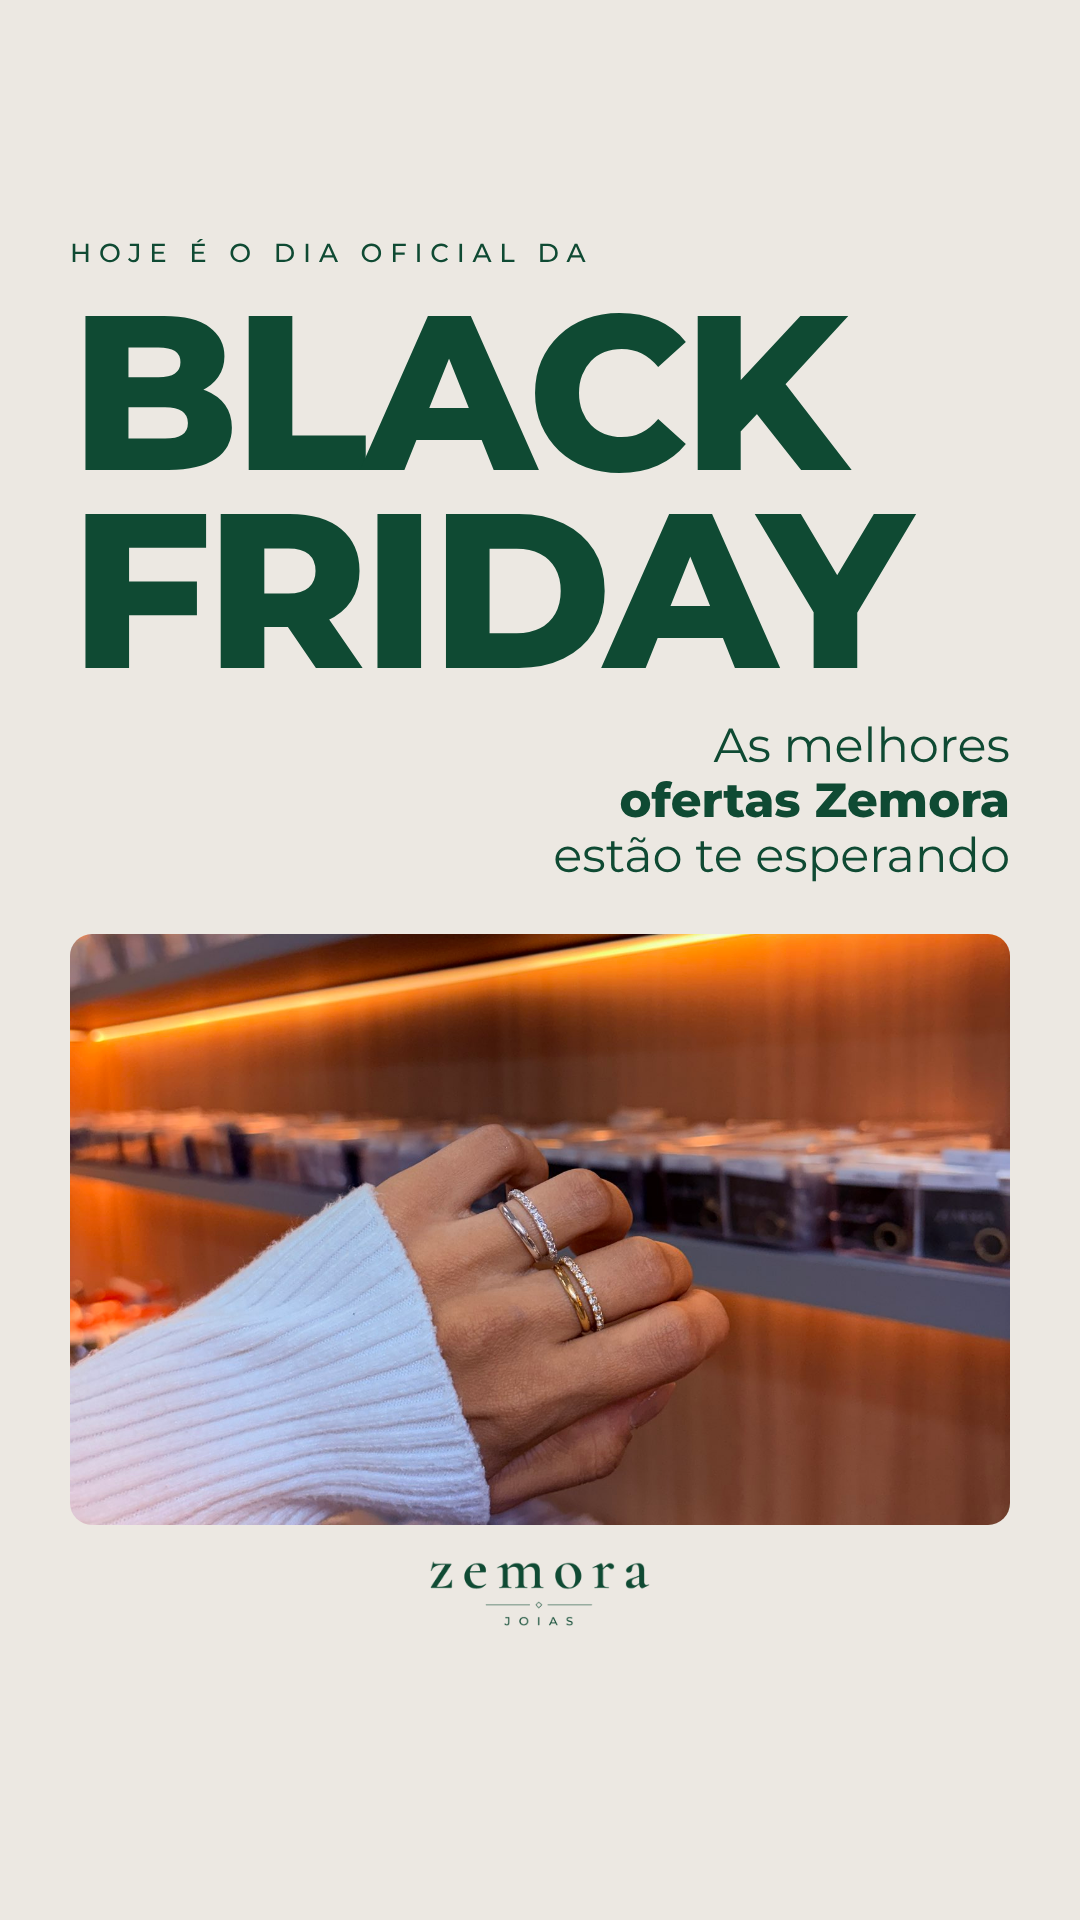
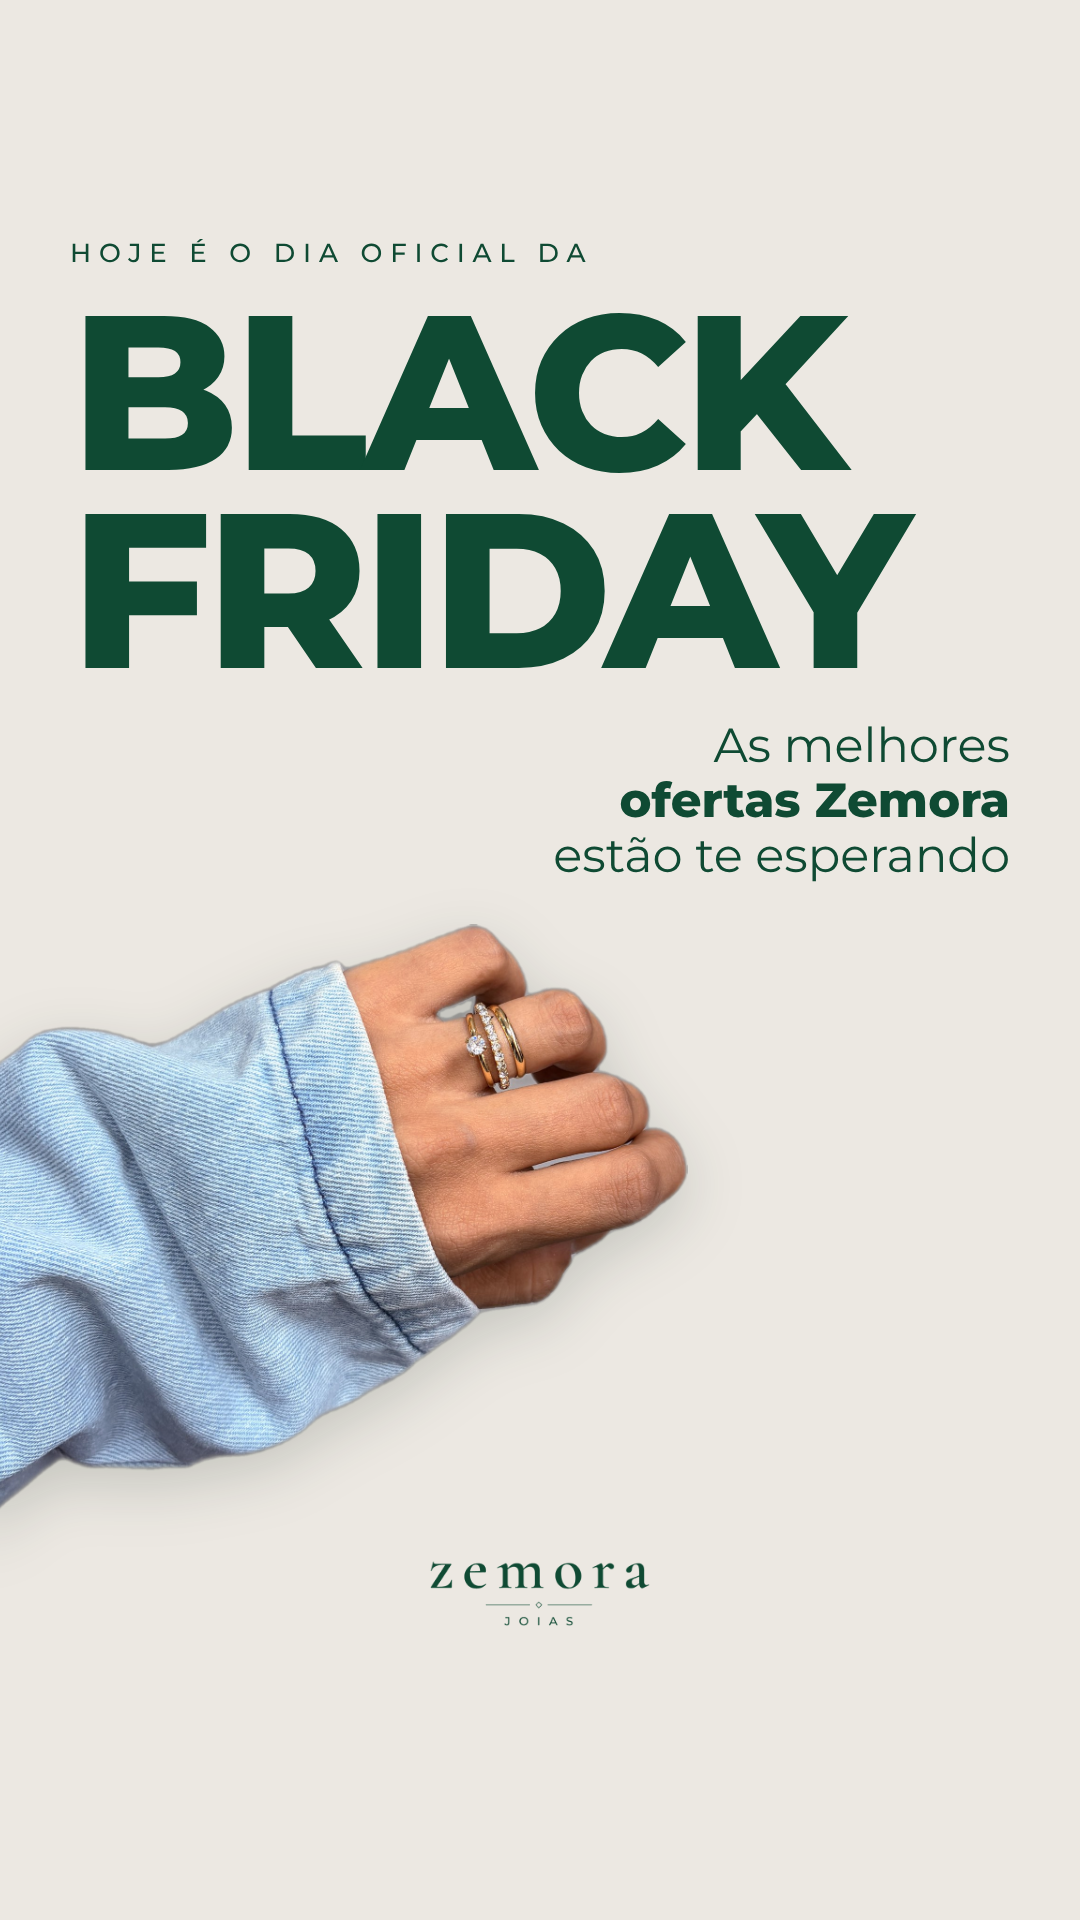
Card 'Dia oficial': mão recortada sem fundo
Claude-Session: https://claude.ai/code/session_01Ds4o6DPNY229NefAqtX4RB

Changed region(s): [[0.0, 0.4688, 0.9472, 0.8125]]

diff --git a/cards/dia-oficial.html b/cards/dia-oficial.html
@@ -10,11 +10,10 @@ body{width:1080px;height:{{H}}px;overflow:hidden;background:#ece8e2;color:#0f4a3
 .badge{position:absolute;left:{{BL}}px;top:{{BT}}px;background:#0f4a33;padding:{{BP}}px {{BPX}}px;box-shadow:0 10px 26px rgba(15,74,51,.35)}
 .badge img{display:block;width:{{LW}}px}
 .row{display:flex;justify-content:flex-end;margin-top:{{G2}}px}
-.sub{text-align:right;font:400 {{SS}}px/1.15 Montserrat;color:#0f4a33}
+.sub{position:relative;z-index:2;text-align:right;font:400 {{SS}}px/1.15 Montserrat;color:#0f4a33}
 .sub b{font-weight:800}
 .ph{position:relative;flex:1;margin-top:{{G3}}px;min-height:0}
-.ph .img{position:absolute;inset:0;border-radius:22px;overflow:hidden}
-.ph img{width:100%;height:100%;object-fit:cover;object-position:{{POS}}}
+.ph .cut{position:absolute;left:-95px;top:0;height:100%;width:auto;filter:drop-shadow(0 18px 30px rgba(15,40,30,.18))}
 .ring{position:absolute;width:{{RW}}px;height:{{RW}}px;left:-34px;top:-{{RT}}px;border-radius:50%;background:#0f4a33;box-shadow:0 8px 24px rgba(0,0,0,.25)}
 .ring svg{width:100%;height:100%}
 .ring text{font:500 17px Montserrat;fill:#f3ead8}
@@ -23,7 +22,7 @@ body{width:1080px;height:{{H}}px;overflow:hidden;background:#ece8e2;color:#0f4a3
 <div class="kick">HOJE É O DIA OFICIAL DA</div>
 <div class="big"><span>BLACK</span><span>FRIDAY</span></div>
 <div class="row"><div class="sub">As melhores<br><b>ofertas Zemora</b><br>estão te esperando</div></div>
-<div class="ph"><div class="img"><img src="foto4.jpg"></div>
+<div class="ph"><img class="cut" src="mao-recortada.png">
 </div>
 <div class="foot"><img src="logo-zemora-verde.png"></div>
 </div></body></html>

diff --git a/cards/render-dia.js b/cards/render-dia.js
@@ -1,6 +1,6 @@
 const {chromium}=require('playwright');const fs=require('fs');
-const f={feed:{H:1350,PADT:70,PADB:60,KS:24,G1:22,BS:210,BL:150,BT:150,BP:22,BPX:34,LW:210,G2:24,SS:44,G3:40,POS:'50% 58%',G4:30,RW:210,RT:60},
- stories:{H:1920,PADT:240,PADB:290,KS:26,G1:26,BS:220,BL:150,BT:156,BP:24,BPX:36,LW:220,G2:30,SS:48,G3:50,POS:'50% 58%',G4:36,RW:220,RT:60}};
+const f={feed:{H:1350,PADT:70,PADB:60,KS:24,G1:22,BS:190,BL:150,BT:150,BP:22,BPX:34,LW:210,G2:24,SS:44,G3:24,POS:'50% 58%',G4:20,CW:780,RW:210,RT:60},
+ stories:{H:1920,PADT:240,PADB:290,KS:26,G1:26,BS:220,BL:150,BT:156,BP:24,BPX:36,LW:220,G2:30,SS:48,G3:40,POS:'50% 58%',G4:30,CW:900,RW:220,RT:60}};
 (async()=>{const b=await chromium.launch();
 for(const [k,v] of Object.entries(f)){const p=await b.newPage({viewport:{width:1080,height:v.H}});
  let h=fs.readFileSync('dia-oficial.html','utf8');for(const [kk,vv] of Object.entries(v)) h=h.split(`{{${kk}}}`).join(vv);
